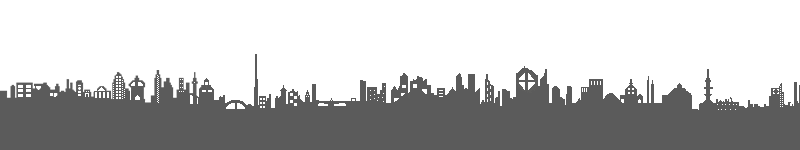
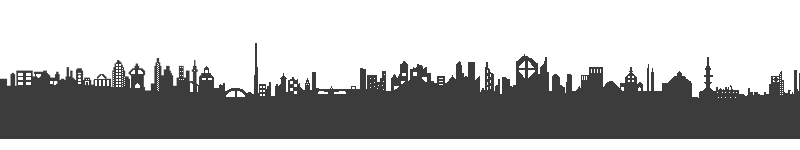
added new city and space enemy art

diff --git a/Cyclyc/ShipGirl/ShipGame.cs b/Cyclyc/ShipGirl/ShipGame.cs
@@ -78,21 +78,21 @@ namespace Cyclyc.ShipGirl
         protected EnemyMaker MakeJerkEnemy(int y)
         {
             return (c) => 
-                enemyBatch.Create(c, "wrench", 2, CollisionStyle.Circle, "jerk", true,
+                enemyBatch.Create(c, "spider robot space", 2, CollisionStyle.Circle, "jerk", true,
                     y, 14, 14, 1.0);
         }
 
         protected EnemyMaker MakeLoopEnemy(int y)
         {
             return (c) =>
-                enemyBatch.Create(c, "wrench", 2, CollisionStyle.Circle, "loop", true,
+                enemyBatch.Create(c, "walking robot space", 2, CollisionStyle.Circle, "loop", true,
                     y, 28, 28, 1.0);
         }
 
         protected EnemyMaker MakeZigzagEnemy(int y)
         {
             return (c) =>
-                enemyBatch.Create(c, "wrench", 2, CollisionStyle.Circle, "zigzag", true,
+                enemyBatch.Create(c, "walking robot space creepy", 2, CollisionStyle.Circle, "zigzag", true,
                     y, 28, 28, 1.0);
         }
 

diff --git a/Cyclyc/JetpackGirl/JetGame.cs b/Cyclyc/JetpackGirl/JetGame.cs
@@ -34,8 +34,10 @@ namespace Cyclyc.JetpackGirl
         public override void Initialize()
         {
             AddBackground("pixel city sky", 0.1f);
-            AddBackground("pixel city skyline", 0.3f);
-            AddBackground("pixel city foreground", 0.5f);
+            AddBackground("pixel city skyline", 0.2f);
+            AddBackground("pixel city middleground", 0.4f);
+            AddBackground("pixel city foreground", 0.6f);
+            AddBackground("pixel city road", 0.6f);
             
             jg = new JetpackGirl((Game1)Game);
             AddSprite(jg);
